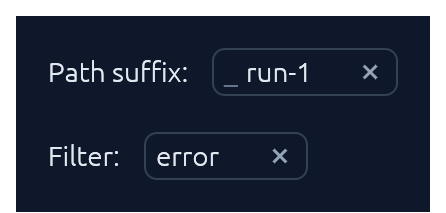
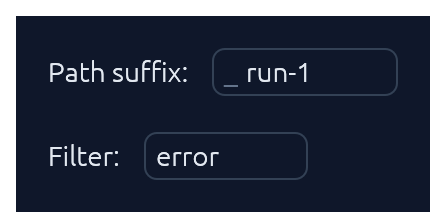
RemovableChip lifecycle + TextInput::compact; bump to 0.7.2
RemovableChip:
- focus(true) requests focus on the chip's TextEdit before the widget
  is added, so focus lands the same frame the chip first appears
  (request_focus applied after add only takes effect the following
  frame). Pair with an "+ add" affordance to drop the user into a
  freshly-surfaced chip.
- close_on_empty_blur(true) fires removed when the editor loses focus
  while empty: clicking elsewhere without typing collapses the chip
  back to its add-button. Same path as Escape-on-empty / clicking the
  x.
- The x close button hides when the chip is at rest, revealing on
  focus or hover. Footprint is reserved either way so the layout
  doesn't jump when it appears.

TextInput:
- compact(true) shrinks vertical padding to match RemovableChip's
  editor (≈22 pt total). Useful for inline path / chip rows where a
  full-height input would dominate. Default unchanged.

Snapshot baselines and the README image regenerated for the chip's
new at-rest look. TextInput baselines unchanged (compact is opt-in).

diff --git a/src/removable_chip.rs b/src/removable_chip.rs
@@ -49,6 +49,8 @@ pub struct RemovableChip<'a> {
     min_width: f32,
     max_width: f32,
     id_salt: Option<Id>,
+    focus_on_render: bool,
+    close_on_empty_blur: bool,
 }
 
 impl<'a> std::fmt::Debug for RemovableChip<'a> {
@@ -60,6 +62,8 @@ impl<'a> std::fmt::Debug for RemovableChip<'a> {
             .field("enabled", &self.enabled)
             .field("min_width", &self.min_width)
             .field("max_width", &self.max_width)
+            .field("focus_on_render", &self.focus_on_render)
+            .field("close_on_empty_blur", &self.close_on_empty_blur)
             .finish()
     }
 }
@@ -76,6 +80,8 @@ impl<'a> RemovableChip<'a> {
             min_width: 50.0,
             max_width: 240.0,
             id_salt: None,
+            focus_on_render: false,
+            close_on_empty_blur: false,
         }
     }
 
@@ -122,6 +128,30 @@ impl<'a> RemovableChip<'a> {
         self
     }
 
+    /// Request focus for the chip's TextEdit on this render. Pass `true`
+    /// on the frame the chip first appears (e.g. just after the user
+    /// clicked an "+ add" button to surface it) so the input is focused
+    /// the moment it shows up; pass `false` on subsequent frames so the
+    /// user can click out and the focus request doesn't keep stealing it
+    /// back. The chip calls `request_focus` on its TextEdit's id before
+    /// the widget is added, so focus lands on the very first frame the
+    /// chip is visible.
+    pub fn focus(mut self, request: bool) -> Self {
+        self.focus_on_render = request;
+        self
+    }
+
+    /// Auto-fire `removed` when the editor loses focus while empty. Use
+    /// this for "+ add" affordances where leaving the chip empty is
+    /// equivalent to deciding not to add the field at all: the caller
+    /// then drops the binding and the affordance reverts to its
+    /// pre-click state. Pairs naturally with [`focus`](Self::focus).
+    /// Default: `false`.
+    pub fn close_on_empty_blur(mut self, on: bool) -> Self {
+        self.close_on_empty_blur = on;
+        self
+    }
+
     /// Render the chip and return its response.
     pub fn show(self, ui: &mut Ui) -> RemovableChipResponse {
         let theme = Theme::current(ui.ctx());
@@ -131,8 +161,19 @@ impl<'a> RemovableChip<'a> {
         let id_salt = self.id_salt.unwrap_or_else(|| Id::new(ui.next_auto_id()));
         let edit_id = ui.make_persistent_id(id_salt);
 
+        // Honour `focus(true)` before the TextEdit is added so the
+        // widget picks up focus the same frame it appears (request_focus
+        // applied after add only takes effect the following frame).
+        if self.focus_on_render && self.enabled {
+            ui.memory_mut(|m| m.request_focus(edit_id));
+        }
+
         let pad_x = 6.0;
-        let pad_y = 2.0;
+        // Vertical padding chosen so the chip renders at the same total
+        // height as `Button::size(ButtonSize::Small)` (≈22 pt). Anything
+        // smaller and the chip sits 2 px shorter than its row neighbours,
+        // which reads as a layout bug rather than a stylistic choice.
+        let pad_y = 3.0;
         let close_diam = 16.0;
         let gap = 4.0;
 
@@ -201,9 +242,12 @@ impl<'a> RemovableChip<'a> {
                 ui.add_enabled(self.enabled, te)
             });
 
-            // Close (×) button: a small interact area with a hand-drawn
-            // cross. Hovered state tints the bg with the danger colour to
-            // signal "click to remove."
+            // Reserve the (×) button's footprint now so the chip's
+            // overall layout is stable whether the cross is currently
+            // painted or hidden. Defer the paint + click handling until
+            // after we know the chip's outer rect (and therefore
+            // hover-on-chip), so the cross can be hidden when the chip
+            // is at rest and revealed on hover or focus.
             let close_size = Vec2::splat(close_diam);
             let sense = if self.enabled {
                 Sense::click()
@@ -212,17 +256,28 @@ impl<'a> RemovableChip<'a> {
             };
             let (close_rect, close_resp) = ui.allocate_exact_size(close_size, sense);
 
-            let close_bg = if close_resp.hovered() && self.enabled {
+            ui.add_space((pad_x - gap).max(0.0));
+
+            (edit_response, close_rect, close_resp)
+        });
+
+        let (edit_response, close_rect, close_resp) = inner.inner;
+        let frame_rect = inner.response.rect;
+
+        // The cross only renders when the chip is "active": editor has
+        // focus, or the pointer is anywhere over the chip's frame. At
+        // rest the chip is just a value pill with no affordance noise.
+        let frame_hovered = ui.rect_contains_pointer(frame_rect);
+        let chip_active = edit_response.has_focus() || frame_hovered;
+        if self.enabled && chip_active {
+            let close_bg = if close_resp.hovered() {
                 with_alpha(p.danger, 32)
             } else {
                 Color32::TRANSPARENT
             };
             ui.painter()
                 .rect_filled(close_rect, CornerRadius::same(3), close_bg);
-
-            let cross_color = if !self.enabled {
-                p.text_faint
-            } else if close_resp.hovered() {
+            let cross_color = if close_resp.hovered() {
                 p.danger
             } else {
                 p.text_muted
@@ -232,14 +287,7 @@ impl<'a> RemovableChip<'a> {
             if close_resp.clicked() {
                 removed = true;
             }
-
-            ui.add_space((pad_x - gap).max(0.0));
-
-            edit_response
-        });
-
-        let edit_response = inner.inner;
-        let frame_rect = inner.response.rect;
+        }
 
         // Escape on an empty editor signals "remove" to the caller.
         if self.enabled
@@ -250,9 +298,21 @@ impl<'a> RemovableChip<'a> {
             removed = true;
         }
 
-        // Paint the chip's frame underneath everything.
+        // Empty editor losing focus also fires `removed` when the caller
+        // opted in. Lets a freshly-surfaced chip auto-close if the user
+        // clicks elsewhere without typing anything.
+        if self.close_on_empty_blur
+            && self.enabled
+            && edit_response.lost_focus()
+            && self.text.trim().is_empty()
+        {
+            removed = true;
+        }
+
+        // Paint the chip's frame underneath everything. Reuse the
+        // already-computed `frame_hovered` from the close-button gating
+        // above.
         let frame_focused = ui.memory(|m| m.has_focus(edit_id));
-        let frame_hovered = ui.rect_contains_pointer(frame_rect);
         let bg_fill = p.input_bg;
         let (border_w, border_color) = if !self.enabled {
             (1.0, with_alpha(p.border, 160))

diff --git a/src/input.rs b/src/input.rs
@@ -45,6 +45,7 @@ pub struct TextInput<'a> {
     password: bool,
     desired_width: Option<f32>,
     id_salt: Option<egui::Id>,
+    compact: bool,
 }
 
 impl<'a> std::fmt::Debug for TextInput<'a> {
@@ -53,6 +54,7 @@ impl<'a> std::fmt::Debug for TextInput<'a> {
             .field("dirty", &self.dirty)
             .field("password", &self.password)
             .field("desired_width", &self.desired_width)
+            .field("compact", &self.compact)
             .finish()
     }
 }
@@ -68,6 +70,7 @@ impl<'a> TextInput<'a> {
             password: false,
             desired_width: None,
             id_salt: None,
+            compact: false,
         }
     }
 
@@ -107,6 +110,15 @@ impl<'a> TextInput<'a> {
         self.id_salt = Some(egui::Id::new(id));
         self
     }
+
+    /// Render with reduced vertical padding so the input matches the
+    /// height of [`RemovableChip`](crate::RemovableChip) and small-size
+    /// controls. Useful for inline path / chip rows where a full-height
+    /// input would dominate. Default: `false` (standard control height).
+    pub fn compact(mut self, compact: bool) -> Self {
+        self.compact = compact;
+        self
+    }
 }
 
 impl<'a> Widget for TextInput<'a> {
@@ -138,7 +150,16 @@ impl<'a> Widget for TextInput<'a> {
             let bg_fill = flash::background_fill(&theme, p.input_bg, flash);
 
             let desired_width = self.desired_width.unwrap_or_else(|| ui.available_width());
-            let margin = Vec2::new(theme.control_padding_x * 0.5, theme.control_padding_y);
+            // Compact mode shrinks the vertical padding to match
+            // RemovableChip's editor and Button::size(Small) at ~22 pt
+            // total. Horizontal padding is unchanged so the caret has
+            // room either way.
+            let margin_y = if self.compact {
+                3.0
+            } else {
+                theme.control_padding_y
+            };
+            let margin = Vec2::new(theme.control_padding_x * 0.5, margin_y);
 
             // Swap visuals so the TextEdit picks up our look, then restore.
             let response = crate::theme::with_themed_visuals(ui, |ui| {
